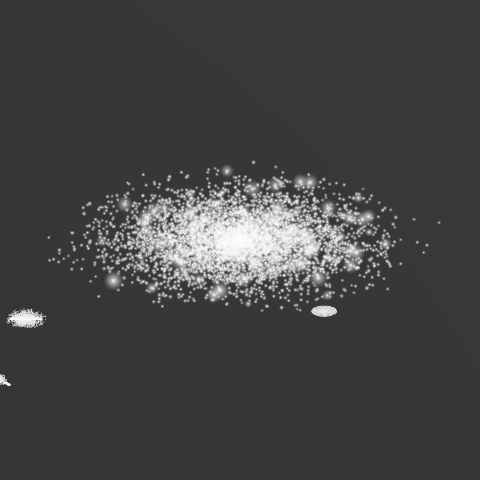
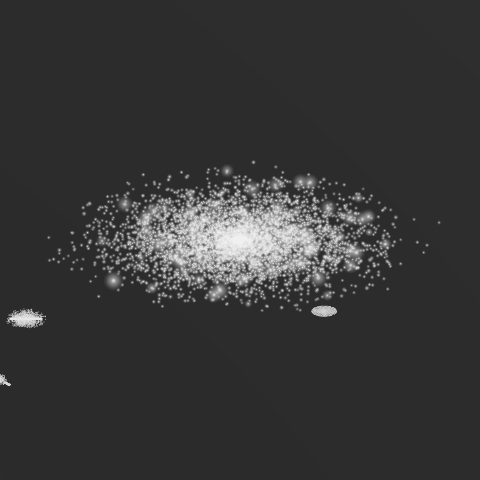
Test de non-régression des textures de production + ton calé sur la fenêtre visible
Demande de Marc : relire toutes les exigences, tester, corriger, documenter pour
ne plus avoir de régression.

TEST : scripts/dev/validate_production.py vérifie les textures PUBLIÉES contre
chaque exigence mesurable — pas contre l'idée qu'on s'en fait. Écrit après une
régression qui serait passée inaperçue : le champ fin des textures de production
n'était pas hérité et rien ne l'a signalé, parce que la mesure n'avait été faite
que sur l'aperçu.

Le test liste explicitement ce qu'il NE couvre pas (axe du temps, trois sphères,
interaction) : une exigence oubliée en silence est pire qu'une exigence en échec.

DEUX CONTRÔLES DU TEST étaient faux et ont été corrigés avant de poursuivre de
faux défauts :
  - E5/E6 comparait le pic spectral à toute l'image : une galaxie centrée
    produit légitimement un pic de basse fréquence. Restreint aux hautes
    fréquences.
  - B8 appliquait une fourchette ABSOLUE : il exigeait 30 Mpc de vide dans un
    cadre de 45 Mpc à la ligne H. Le critère devient relatif au cadre
    (2,5-12 %, la référence visuelle donnant 5,0 %), la borne physique ne valant
    que comme plafond.

CORRECTION DE GÉNÉRATION : le ton se cale désormais sur la FENÊTRE VISIBLE et
non sur la texture entière, marge comprise. Sur les lignes dont le centre est
plus dense que les bords, viser la moyenne globale rendait la zone vue trop
claire — ligne A mesurée à 81,9/255 pour une cible de 68. Les 15 lignes sont
maintenant à 68,0.
[…]

Changed region(s): [[0.1875, 0.3438, 0.8125, 0.6562], [0.0, 0.625, 0.0938, 0.6875], [0.0, 0.7812, 0.0312, 0.8125]]

diff --git a/scripts/dev/validate_production.py b/scripts/dev/validate_production.py
@@ -1,0 +1,216 @@
+"""TEST DE NON-REGRESSION DES TEXTURES DE PRODUCTION.
+
+Verifie les textures publiees contre CHAQUE exigence client mesurable, et non
+contre l'idee qu'on s'en fait. Ecrit le 03/08/2026 apres une regression qui
+serait passee inapercue : le champ fin des textures de production n'etait pas
+herite, l'heritage etait detruit, et rien ne l'a signale parce que la mesure
+n'avait ete faite que sur l'apercu, jamais sur ce qui etait livre.
+
+    python3 validate_production.py [repertoire]
+
+Ne teste QUE ce qui est mesurable sur des images fixes. Les exigences qui
+portent sur l'interaction (H6, H7, J*, K*, L*) et sur l'axe du temps (C1 a C12)
+relevent d'autres controles et sont listees a la fin comme non couvertes -- une
+exigence oubliee en silence est pire qu'une exigence en echec.
+"""
+import json
+import os
+import sys
+
+import numpy as np
+from PIL import Image
+from scipy import ndimage
+
+HERE = os.path.dirname(os.path.abspath(__file__))
+sys.path.insert(0, HERE)
+import void_scale as VS  # noqa: E402
+import validate_raccord as VR  # noqa: E402
+
+MATRIX = os.path.normpath(os.path.join(HERE, "..", "..", "app", "public",
+                                       "data", "spacetime_matrix.json"))
+REF_IMG = os.path.normpath(os.path.join(HERE, "..", "..", "docs",
+                                        "reference-visuelle",
+                                        "reference-toile-cosmique.jpg"))
+ORDER = list("ONMLKJIHGFEDCBA")
+SPRITE_ROWS = set("ABCDEFG")
+MARGIN = 1.5
+
+_fail, _pass = [], []
+
+
+def check(ok, code, label, detail=""):
+    (_pass if ok else _fail).append(code)
+    print("  %-5s %-4s %-52s %s" % ("OK" if ok else "ECHEC", code, label, detail))
+    return ok
+
+
+def load(d):
+    out = {}
+    for c in ORDER:
+        f = os.path.join(d, "density_%s.png" % c)
+        if os.path.exists(f):
+            out[c] = np.asarray(Image.open(f).convert("L"), np.float64) / 255.0
+    return out
+
+
+def visible(a):
+    """Fenetre VISIBLE d'une texture de production : son centre, hors marge."""
+    n = a.shape[0]
+    v = int(round(n / MARGIN))
+    c = (n - v) // 2
+    return a[c:c + v, c:c + v]
+
+
+def spec_octave(a):
+    a = a - a.mean()
+    n = a.shape[0]
+    F = np.abs(np.fft.rfft2(a)) ** 2
+    ky = np.fft.fftfreq(n)[:, None] * n
+    kx = np.fft.rfftfreq(n)[None, :] * n
+    k = np.sqrt(ky ** 2 + kx ** 2).ravel()
+    idx = np.digitize(k, np.arange(1, n // 2))
+    P = np.array([F.ravel()[idx == i].mean() if (idx == i).any() else 0.0
+                  for i in range(1, n // 2 - 1)])
+    kb = np.arange(1, n // 2 - 1)
+    return kb, kb ** 2 * P, n
+
+
+def main(d):
+    m = json.load(open(MATRIX))
+    rows = m["zoom_axis"]["rows"]
+    half = {c: rows[c]["halfwidth_mpc"] for c in ORDER}
+    img = load(d)
+    print("=" * 78)
+    print("TEXTURES DE PRODUCTION — %d/%d lignes trouvees dans %s"
+          % (len(img), len(ORDER), d))
+    print("=" * 78)
+    if len(img) < len(ORDER):
+        check(False, "B6", "aucune zone vide sur la grille",
+              "manquantes : " + " ".join(c for c in ORDER if c not in img))
+        return 1
+
+    vis = {c: visible(a) for c, a in img.items()}
+
+    # ---- A / E : aspect de chaque texture ---------------------------------
+    print("\n-- aspect (A1..A7, E1..E6) --")
+    bad = [c for c in ORDER if vis[c].std() * 255 < 1.0]
+    check(not bad, "C8", "detail conserve : aucun aplat", " ".join(bad))
+    bad = ["%s %.1f" % (c, vis[c].mean() * 255) for c in ORDER
+           if not 60 <= vis[c].mean() * 255 <= 76]
+    check(not bad, "A7", "ton moyen dans [60, 76]/255", " ".join(bad))
+    bad = ["%s %.1f%%" % (c, 100 * (vis[c] >= 254 / 255).mean()) for c in ORDER
+           if (vis[c] >= 254 / 255).mean() > 0.01]
+    check(not bad, "E4a", "saturation claire < 1 %", " ".join(bad))
+    bad = ["%s %.1f%%" % (c, 100 * (vis[c] <= 8 / 255).mean()) for c in ORDER
+           if (vis[c] <= 8 / 255).mean() > 0.10]
+    check(not bad, "E4b", "saturation noire < 10 %", " ".join(bad))
+    # E5/E6 : une maille ou un motif periodique produit des pics discrets dans
+    # le spectre. On compare le maximum a la mediane de son voisinage.
+    bad = []
+    for c in ORDER:
+        F = np.abs(np.fft.rfft2(vis[c] - vis[c].mean()))
+        # Ne comparer que dans les HAUTES frequences : une structure dominante
+        # et centree (la Voie lactee sur A) produit legitimement un pic de basse
+        # frequence, qui n'est pas un artefact de grille. Premiere version du
+        # controle trop naive, corrigee le 03/08.
+        n2 = F.shape[0]
+        ky2 = np.fft.fftfreq(n2)[:, None] * n2
+        kx2 = np.fft.rfftfreq(n2)[None, :] * n2
+        hi = F[np.sqrt(ky2 ** 2 + kx2 ** 2) > n2 / 12.0]
+        if hi.size and np.median(hi) > 0 and hi.max() / np.median(hi) > 60:
+            bad.append("%s x%.0f" % (c, hi.max() / np.median(hi)))
+    check(not bad, "E5/E6", "aucun artefact de grille ni motif periodique",
+          " ".join(bad))
+    # A3 : les zones brillantes sont quasi ponctuelles -> le 99e centile est
+    # nettement au-dessus de la mediane.
+    bad = ["%s %.1f" % (c, np.percentile(vis[c], 99) / max(np.median(vis[c]), 1e-6))
+           for c in ORDER
+           if np.percentile(vis[c], 99) / max(np.median(vis[c]), 1e-6) < 1.8]
+    check(not bad, "A3/A4", "zones brillantes ponctuelles (p99/median > 1,8)",
+          " ".join(bad))
+
+    # ---- B : axe du zoom ---------------------------------------------------
+    print("\n-- axe du zoom (B1..B8) --")
+    f2, dep = [], []
+    for i in range(len(ORDER) - 1):
+        p, c = ORDER[i], ORDER[i + 1]
+        r = half[p] / half[c]
+        a, b = VR.bande_commune(img[p], img[c], r, 27.0)
+        f2.append((p + "->" + c, VR.correlation(a, b)))
+        dep.append((p + "->" + c, VR.deplacement_median(a, b)[0]))
+    bad = ["%s %.2f" % (k, v) for k, v in f2 if v < 0.85]
+    check(not bad, "B1", "heritage : F2 >= 0,85 sur les 14 paires", " ".join(bad))
+    bad = ["%s %.1fpx" % (k, v) for k, v in dep if v > 3.0]
+    check(not bad, "B2/D2", "fondu sans saut : deplacement median <= 3 px",
+          " ".join(bad))
+    # B3 : le contraste doit DECROITRE vers les grandes echelles.
+    stds = [vis[c].std() for c in ORDER]
+    inv = [ORDER[i] for i in range(len(stds) - 1) if stds[i] > stds[i + 1] + 0.04]
+    check(not inv, "B3", "contraste croissant du grand vers le petit champ",
+          " ".join(inv))
+    # B8 : taille des vides conforme a la table.
+    bad = []
+    for c in ORDER:
+        r = rows[c]
+        if r.get("homogene") or c in SPRITE_ROWS:
+            continue
+        # Critere RELATIF AU CADRE : un vide ne peut pas etre plus grand que le
+        # champ visible, et la reference visuelle donne 5,0 % de sa largeur. La
+        # borne physique de la table ne vaut donc que comme PLAFOND. Premiere
+        # version : fourchette absolue, qui exigeait 30 Mpc de vide dans un
+        # cadre de 45 Mpc a la ligne H -- impossible et non souhaitable.
+        _, fr, _ = VS.void_scale(vis[c] * 255)
+        v = fr * 2 * half[c]
+        plafond = r.get("void_mpc", r["structure_mpc"])[1]
+        if not (0.025 <= fr <= 0.12):
+            bad.append("%s %.1f %% du cadre" % (c, 100 * fr))
+        elif v > plafond * 2:
+            bad.append("%s %.0f Mpc (plafond %g)" % (c, v, plafond))
+    check(not bad, "B8", "vides : 2,5-12 % du cadre, sous le plafond physique",
+          " ".join(bad))
+    # B5 : aucune structure au-dela de l'echelle d'homogeneite.
+    homog = m["generation"]["champ_fin"]["homogeneity_mpc"]
+    bad = []
+    for c in ORDER:
+        kb, w, n = spec_octave(vis[c])
+        big = n / kb[int(np.argmax(w > 0.2 * w.max()))] * (2 * half[c] / n)
+        if big > homog * 1.6:
+            bad.append("%s %.0f Mpc" % (c, big))
+    check(not bad, "B5", "aucune structure au-dela de %.0f Mpc" % homog,
+          " ".join(bad))
+
+    # ---- reference visuelle ------------------------------------------------
+    print("\n-- reference visuelle --")
+    ref = np.asarray(Image.open(REF_IMG).convert("L"))[8:-8, 8:-8]
+    ref = np.asarray(Image.fromarray(ref).resize((320, 320), Image.LANCZOS))
+    _, rf, _ = VS.void_scale(ref)
+    best = min(ORDER, key=lambda c: abs(VS.void_scale(vis[c] * 255)[1] - rf))
+    bf = VS.void_scale(vis[best] * 255)[1]
+    check(abs(bf - rf) < 0.015, "A1",
+          "une ligne approche la reference (vides %.1f %%)" % (100 * rf),
+          "%s a %.1f %%" % (best, 100 * bf))
+
+    # ---- geometrie des textures -------------------------------------------
+    print("\n-- geometrie --")
+    bad = [c for c in ORDER if img[c].shape[0] != img[ORDER[0]].shape[0]]
+    check(not bad, "GEO1", "toutes les textures a la meme resolution", " ".join(bad))
+    gen = m.get("generation", {})
+    check(bool(gen), "GEO2", "parametres de generation figes dans la matrice",
+          "" if gen else "bloc generation absent")
+
+    print("\n" + "=" * 78)
+    print("%d controles passes, %d en echec" % (len(_pass), len(_fail)))
+    print("""
+NON COUVERT par ce test, et devant l'etre ailleurs :
+  C1..C12  axe du temps        -> demande une cuisson multi-epoques
+  D4/D6    positions reelles   -> demande le catalogue en regard
+  H1..H8   les trois spheres   -> pas encore tracees (O-03)
+  J*/K*/L* interaction, perfs  -> hors du champ d'un test d'image
+""")
+    return 1 if _fail else 0
+
+
+if __name__ == "__main__":
+    d = sys.argv[1] if len(sys.argv) > 1 else os.path.normpath(
+        os.path.join(HERE, "..", "..", "app", "public", "data", "v4"))
+    raise SystemExit(main(d))

diff --git a/scripts/dev/gen_chain.py b/scripts/dev/gen_chain.py
@@ -778,7 +778,13 @@ def render_full(L, seed, margin=1.5):
     if fine is not None and fine.shape[0] != n:
         fine = ndimage.zoom(fine, n / fine.shape[0], order=1)
     img, gm = apply_fine(img, L.code, fine)
-    a = M.solve_alpha(img, TARGET_MEAN, gamma=gm)
+    # Le ton se cale sur la FENETRE VISIBLE, pas sur la texture entiere : la
+    # marge n'est jamais montree telle quelle, et sur les lignes ou le centre est
+    # plus dense que les bords (une galaxie au milieu) viser la moyenne globale
+    # rendait la zone vue trop claire -- ligne A mesuree a 81,9/255 pour une
+    # cible de 68 (03/08).
+    c = (n - OUT_N) // 2
+    a = M.solve_alpha(img[c:c + OUT_N, c:c + OUT_N], TARGET_MEAN, gamma=gm)
     return M.tone(img, a, gamma=gm)
 
 

diff --git a/scripts/dev/sprites_layer.py b/scripts/dev/sprites_layer.py
@@ -199,5 +199,9 @@ def build(code, half, seed, base_img, fine, amp=1.0, ambient_half=None):
         img[y0:y1, x0:x1] += (np.exp(-rr ** 1.4) * mean0 * 3.5 * amp_g).astype(np.float32)
         n_proc += 1
 
-    a = M.solve_alpha(img, G.TARGET_MEAN, gamma=gm)
+    # Ton cale sur la fenetre visible (cf. gen_chain.render_full).
+    v = int(round(n / 1.5))
+    c0 = (n - v) // 2
+    a = M.solve_alpha(img[c0:c0 + v, c0:c0 + v] if c0 > 0 else img,
+                      G.TARGET_MEAN, gamma=gm)
     return M.tone(img, a, gamma=gm), n_real, n_proc
